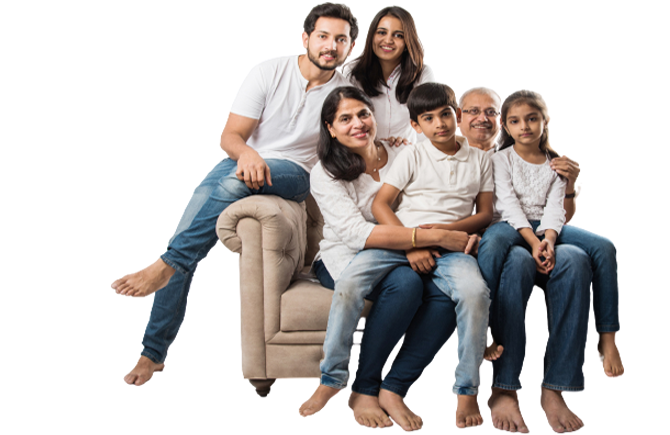
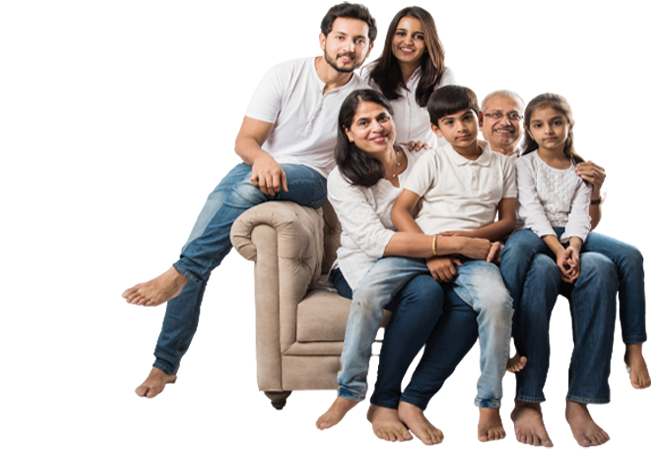
isahdssd css

diff --git a/plans/startassure-fitassure.html b/plans/startassure-fitassure.html
@@ -117,7 +117,7 @@ selector { property:value; }
      <div class="container">
             <div class="row  px-3 px-md-0">
              <div class="col-12 col-md-6 col-sm-12 col-lg-5 col-xl-5 col-xxl-5 banner">
-         <h2 class="pl-2 startassu pb-3"> <span style="color:#0f5fc2;"> Apki Daily Health Ki Insurance </span>  </h2>
+         <h2 class="pl-2 startassu pb-2"> <span style="color:#0f5fc2;"> Apki Daily Health Ki Insurance </span>  </h2>
          <p class="thead1 pl-2 mb-2" style="font-size:18px;margin-bottom:1px;">Secure your family’s out-of-pocket <br> medical expenses with <span style="color:#0f5fc2;"><b>FitAssure </b> </span> </p>
          <p class="thead1 pl-2 pb-4 pt-1" style="font-size:18px;margin-bottom:1px;"> Starting at just <span style="color:#0f5fc2;"><b> &#8377; 167/month </b></span> </p>
 
@@ -130,7 +130,7 @@ selector { property:value; }
 
 </div>
 </div>
-        <div class="col-12 col-md-6 col-sm-12 col-lg-7 col-xl-7 col-xxl-7 pb-4 banner1 mob">
+        <div class="col-12 col-md-6 col-sm-12 col-lg-7 col-xl-7 col-xxl-7 banner1 mob">
     <img src="images/main-doctor1.png" class="img-fluid">
 </div>
 </div>

diff --git a/plans/css/style1.css b/plans/css/style1.css
@@ -4987,7 +4987,7 @@ a:hover{
 .banner1{
     padding-top:25px;
      margin-top:120px;
-      padding-bottom:60px!important;
+     padding-bottom:15px!important;
  }
 .startassu{
     font-size:40px;
@@ -5230,7 +5230,7 @@ a:hover{
 .banner1{
     padding-top: 20px;
      margin-top: 120px;
-    padding-bottom:60px!important;
+    padding-bottom:10px!important;
  }
 .startassu{
     font-size:43px;
@@ -5479,6 +5479,7 @@ a:hover{
   .banner1{
     padding-top: 40px;
      margin-top: 90px;
+     
  }
 
 .startassu{
@@ -5586,6 +5587,7 @@ a:hover{
   .banner1{
     padding-top: 40px;
      margin-top: 90px;
+     padding-bottom:20px!important;
  }
 
 .startassu{
@@ -5801,6 +5803,7 @@ a:hover{
   .banner1{
     padding-top: 40px;
      margin-top: 90px;
+     padding-bottom:20px!important;
  }
 
 .startassu{
